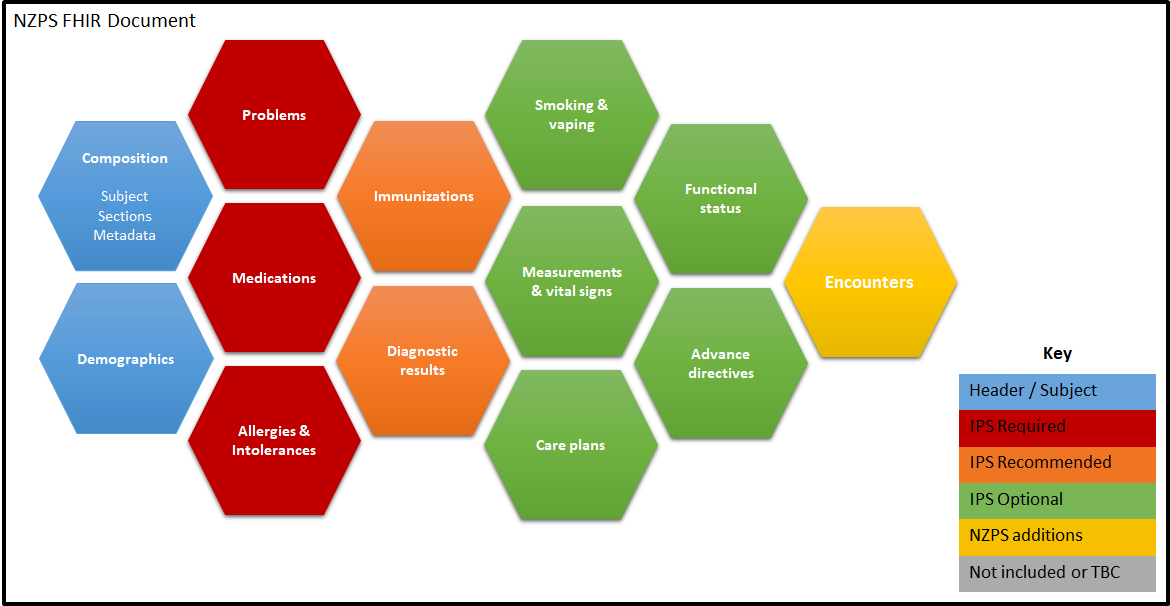
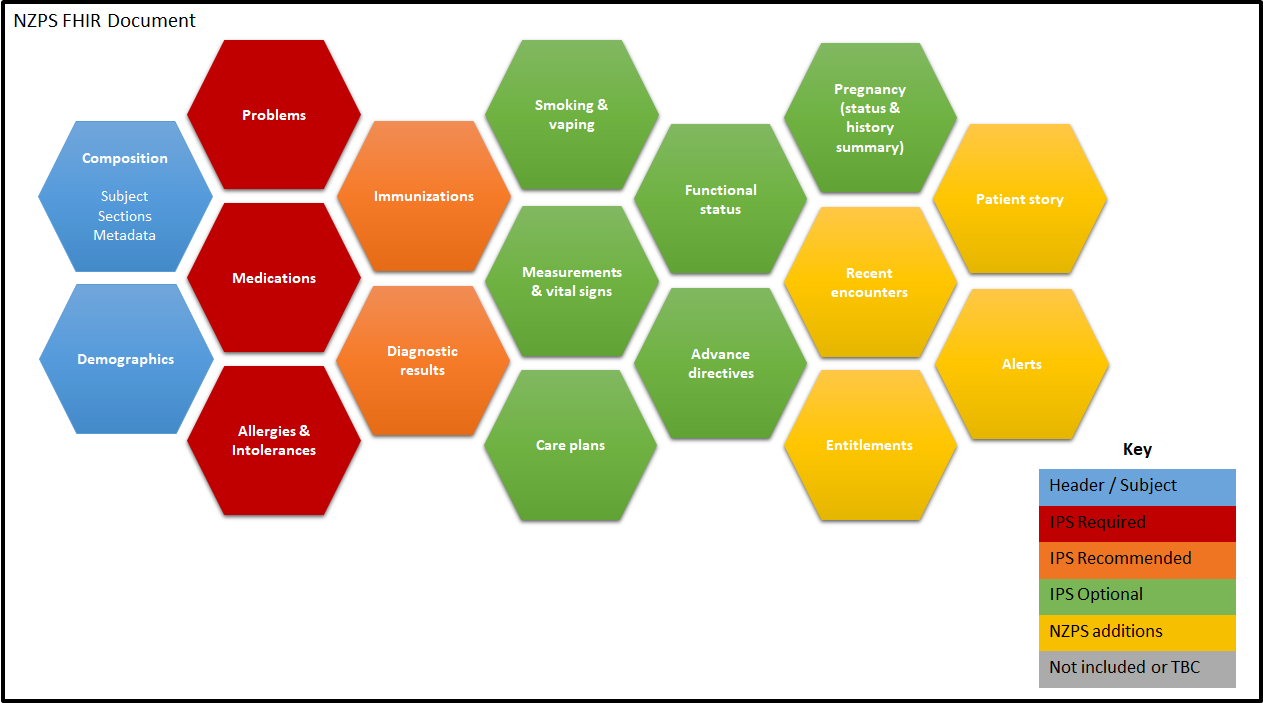
update diagram

diff --git a/input/pagecontent/the-nzps.md b/input/pagecontent/the-nzps.md
@@ -21,17 +21,3 @@ expected to emerge from IPS’s own further development, as well as from local i
 | Functional status          | An individual’s ability to perform normal daily activities required to meet basic needs, fulfil usual roles and maintain health and well-being |
 | Advance directives        |  Provision for healthcare decisions in the event that, in the future, a person is unable to make those decisions. Contains structured information related to the identity and address details of the decision maker and a description of all known patient's advance directives; this may reference a legal document. As there may be multiple directives it may be that the content is organized as a list. Furthermore, there may just be a reference to a document (sometimes known as a Living Will) rather than simple text. This reference may be an URL but is not restricted to just that form of reference.
 | Encounters                 | Core personal health information includes a record of the person’s recent encounters and interactions with health providers and the health system. This includes planned and unplanned encounters, in-person and online, at home or at a facility. Common types of encounter includes visits and online consultations with a GP, allied health professional or specialist.                                                                                                                                                                        |
-
-<br />
-
-### Future scope
-
-In the future, the initial scope will be expanded to include new sections with additional content. The content areas identified to add to this intial scope are shown in the following diagram. 
-
-<br />
-
-<br />
-
-{% include img.html img="future-scope.png" caption="Figure 2: The NZPS future scope" width="100%" %}
-
-<br />
